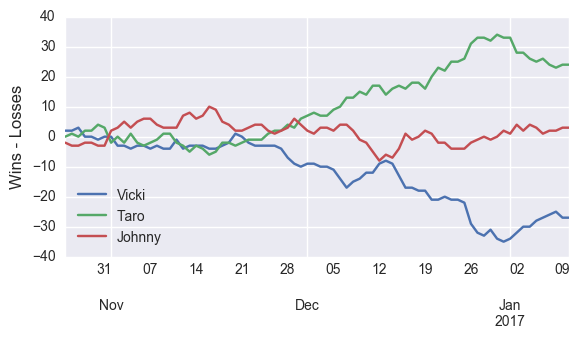
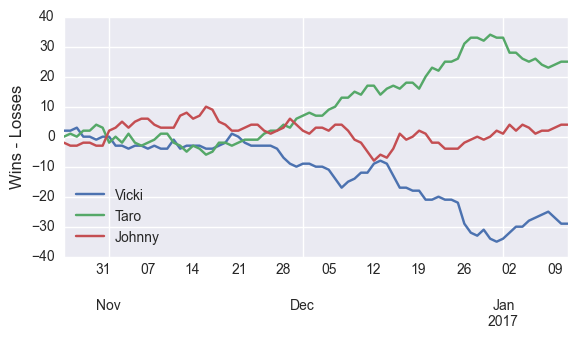
Added table of current teams for each bettor

diff --git a/index.html b/index.html
@@ -35,7 +35,7 @@
 <a id="the-bet-is-on" class="anchor" href="#the-bet-is-on" aria-hidden="true"><span aria-hidden="true" class="octicon octicon-link"></span></a>The bet is on.</h1>
 
 <h1>
-<a id="current-winner-of-2016-17-season" class="anchor" href="#current-winner-of-2016-17-season" aria-hidden="true"><span aria-hidden="true" class="octicon octicon-link"></span></a>Current winner of 2016-17 Season (as of 1/10/2017):</h1>
+<a id="current-winner-of-2016-17-season" class="anchor" href="#current-winner-of-2016-17-season" aria-hidden="true"><span aria-hidden="true" class="octicon octicon-link"></span></a>Current winner of 2016-17 Season (as of 1/11/2017):</h1>
 
 <h2>
 <a id="none" class="anchor" href="#none" aria-hidden="true"><span aria-hidden="true" class="octicon octicon-link"></span></a><strong>Taro</strong>
@@ -44,23 +44,23 @@
 <h2>
 <a id="johnny" class="anchor" href="#johnny" aria-hidden="true"><span aria-hidden="true" class="octicon octicon-link"></span></a>Johnny</h2>
 
-<p>Wins: 192<br>
-Losses: 189<br>
-Remaining wins available: 374</p>
+<p>Wins: 196<br>
+Losses: 192<br>
+Remaining wins available: 367</p>
 
 <h2>
 <a id="taro" class="anchor" href="#taro" aria-hidden="true"><span aria-hidden="true" class="octicon octicon-link"></span></a>Taro</h2>
 
-<p>Wins: 200<br>
-Losses: 176<br>
-Remaining wins available: 375</p>
+<p>Wins: 204<br>
+Losses: 179<br>
+Remaining wins available: 369</p>
 
 <h2>
 <a id="vicki" class="anchor" href="#vicki" aria-hidden="true"><span aria-hidden="true" class="octicon octicon-link"></span></a>Vicki</h2>
 
-<p>Wins: 177<br>
-Losses: 204<br>
-Remaining wins available: 377</p>
+<p>Wins: 178<br>
+Losses: 207<br>
+Remaining wins available: 373</p>
 
 <img src='pythoncode/win_percent.png' alt='Winning Percentage Over Time'>
 <h1>
@@ -72,9 +72,67 @@ Remaining wins available: 377</p>
 <h2>
 <a id="taro-1" class="anchor" href="#taro-1" aria-hidden="true"><span aria-hidden="true" class="octicon octicon-link"></span></a><strong>Taro</strong>
 </h2>
+
+<h2> Current teams </h2>
+<table border="1">
+<tr>
+<td><h3>johnny</h3></td>
+<td><h3>taro</h3></td>
+<td><h3>vicki</h3></td>
+</tr>
+<tr>
+<td>Warriors</td>
+<td>Spurs</td>
+<td>Cavaliers</td>
+</tr>
+<tr>
+<td>Celtics</td>
+<td>Raptors</td>
+<td>Clippers</td>
+</tr>
+<tr>
+<td>Jazz</td>
+<td>Rockets</td>
+<td>Trail Blazers</td>
+</tr>
+<tr>
+<td>Hawks</td>
+<td>Hornets</td>
+<td>Grizzlies</td>
+</tr>
+<tr>
+<td>Pistons</td>
+<td>Thunder</td>
+<td>Pacers</td>
+</tr>
+<tr>
+<td>Timberwolves</td>
+<td>Wizards</td>
+<td>Mavericks</td>
+</tr>
+<tr>
+<td>Bucks</td>
+<td>Pelicans</td>
+<td>Bulls</td>
+</tr>
+<tr>
+<td>Magic</td>
+<td>Knicks</td>
+<td>Heat</td>
+</tr>
+<tr>
+<td>Nuggets</td>
+<td>Kings</td>
+<td>Suns</td>
+</tr>
+<tr>
+<td>Lakers</td>
+<td>Nets</td>
+<td>Sixers</td>
+</tr>
+</table>
       </section>
     </div>
-
     <!-- FOOTER  -->
     <div id="footer_wrap" class="outer">
       <footer class="inner">

diff --git a/template.html b/template.html
@@ -72,9 +72,67 @@ Remaining wins available: %i</p>
 <h2>
 <a id="taro-1" class="anchor" href="#taro-1" aria-hidden="true"><span aria-hidden="true" class="octicon octicon-link"></span></a><strong>Taro</strong>
 </h2>
+
+<h2> Current teams </h2>
+<table border="1">
+<tr>
+<td><h3>%s</h3></td>
+<td><h3>%s</h3></td>
+<td><h3>%s</h3></td>
+</tr>
+<tr>
+<td>%s</td>
+<td>%s</td>
+<td>%s</td>
+</tr>
+<tr>
+<td>%s</td>
+<td>%s</td>
+<td>%s</td>
+</tr>
+<tr>
+<td>%s</td>
+<td>%s</td>
+<td>%s</td>
+</tr>
+<tr>
+<td>%s</td>
+<td>%s</td>
+<td>%s</td>
+</tr>
+<tr>
+<td>%s</td>
+<td>%s</td>
+<td>%s</td>
+</tr>
+<tr>
+<td>%s</td>
+<td>%s</td>
+<td>%s</td>
+</tr>
+<tr>
+<td>%s</td>
+<td>%s</td>
+<td>%s</td>
+</tr>
+<tr>
+<td>%s</td>
+<td>%s</td>
+<td>%s</td>
+</tr>
+<tr>
+<td>%s</td>
+<td>%s</td>
+<td>%s</td>
+</tr>
+<tr>
+<td>%s</td>
+<td>%s</td>
+<td>%s</td>
+</tr>
+</table>
       </section>
     </div>
-
     <!-- FOOTER  -->
     <div id="footer_wrap" class="outer">
       <footer class="inner">

diff --git a/pythoncode/NBAparser_v2.py b/pythoncode/NBAparser_v2.py
@@ -169,14 +169,15 @@ def plot_graph(wins_losses):
     
     return 
     
-def make_html(current_totals):
+def make_html(current_totals, team_pickorder):
 
     with open('../template.html', 'r') as ftemp:
         temp = ftemp.read()
     
     current_totals = current_totals.sort_values('wins', ascending=False)
-    current_winner = current_totals.index[0]    
-    updated = temp % (STR_TODAY, current_winner,
+    current_winner = current_totals.index[0] 
+    
+    html_string = [STR_TODAY, current_winner,
                       current_totals.loc['Johnny']['wins'],
                       current_totals.loc['Johnny']['losses'],
                       current_totals.loc['Johnny']['remaining'],
@@ -185,7 +186,11 @@ def make_html(current_totals):
                       current_totals.loc['Taro']['remaining'],
                       current_totals.loc['Vicki']['wins'],
                       current_totals.loc['Vicki']['losses'],
-                      current_totals.loc['Vicki']['remaining'])
+                      current_totals.loc['Vicki']['remaining']] + team_pickorder
+    
+                      
+    print html_string
+    updated = temp % tuple(html_string)
                       
     with open('../index.html', 'w') as findex:
         findex.write(updated)
@@ -195,11 +200,22 @@ def make_html(current_totals):
 
 if __name__ == '__main__':
     
+    
     # Upload each of our teams from separate text files
     vicki = np.loadtxt('vicki_teams16-17.txt', dtype=str, delimiter='\t')
     johnny = np.loadtxt('johnny_teams16-17.txt', dtype=str)
     taro = np.loadtxt('taro_teams16-17.txt', dtype=str, delimiter='\t')
     
+    # Creates values for table of picks based on pick order
+    person_dict = {'vicki': vicki, 'johnny': johnny, 'taro': taro}
+    pick_order = np.loadtxt('pickorder.txt', dtype=str, delimiter='\t')
+
+    team_pickorder = [pick_order[0], pick_order[1], pick_order[2]]
+    for i in range(10):
+        team_pickorder += [person_dict[pick_order[0]][i], 
+                            person_dict[pick_order[1]][i], 
+                            person_dict[pick_order[2]][i]]
+                            
     vicki_ids = []
     johnny_ids = []
     taro_ids = []
@@ -238,4 +254,4 @@ if __name__ == '__main__':
     current_totals.loc['Vicki'] = [vwins, vloss, vwins_remain]
     current_totals.loc['Johnny'] = [jwins, jloss, jwins_remain]
     current_totals.loc['Taro'] = [twins, tloss, twins_remain]
-    make_html(current_totals)
+    make_html(current_totals, team_pickorder)
